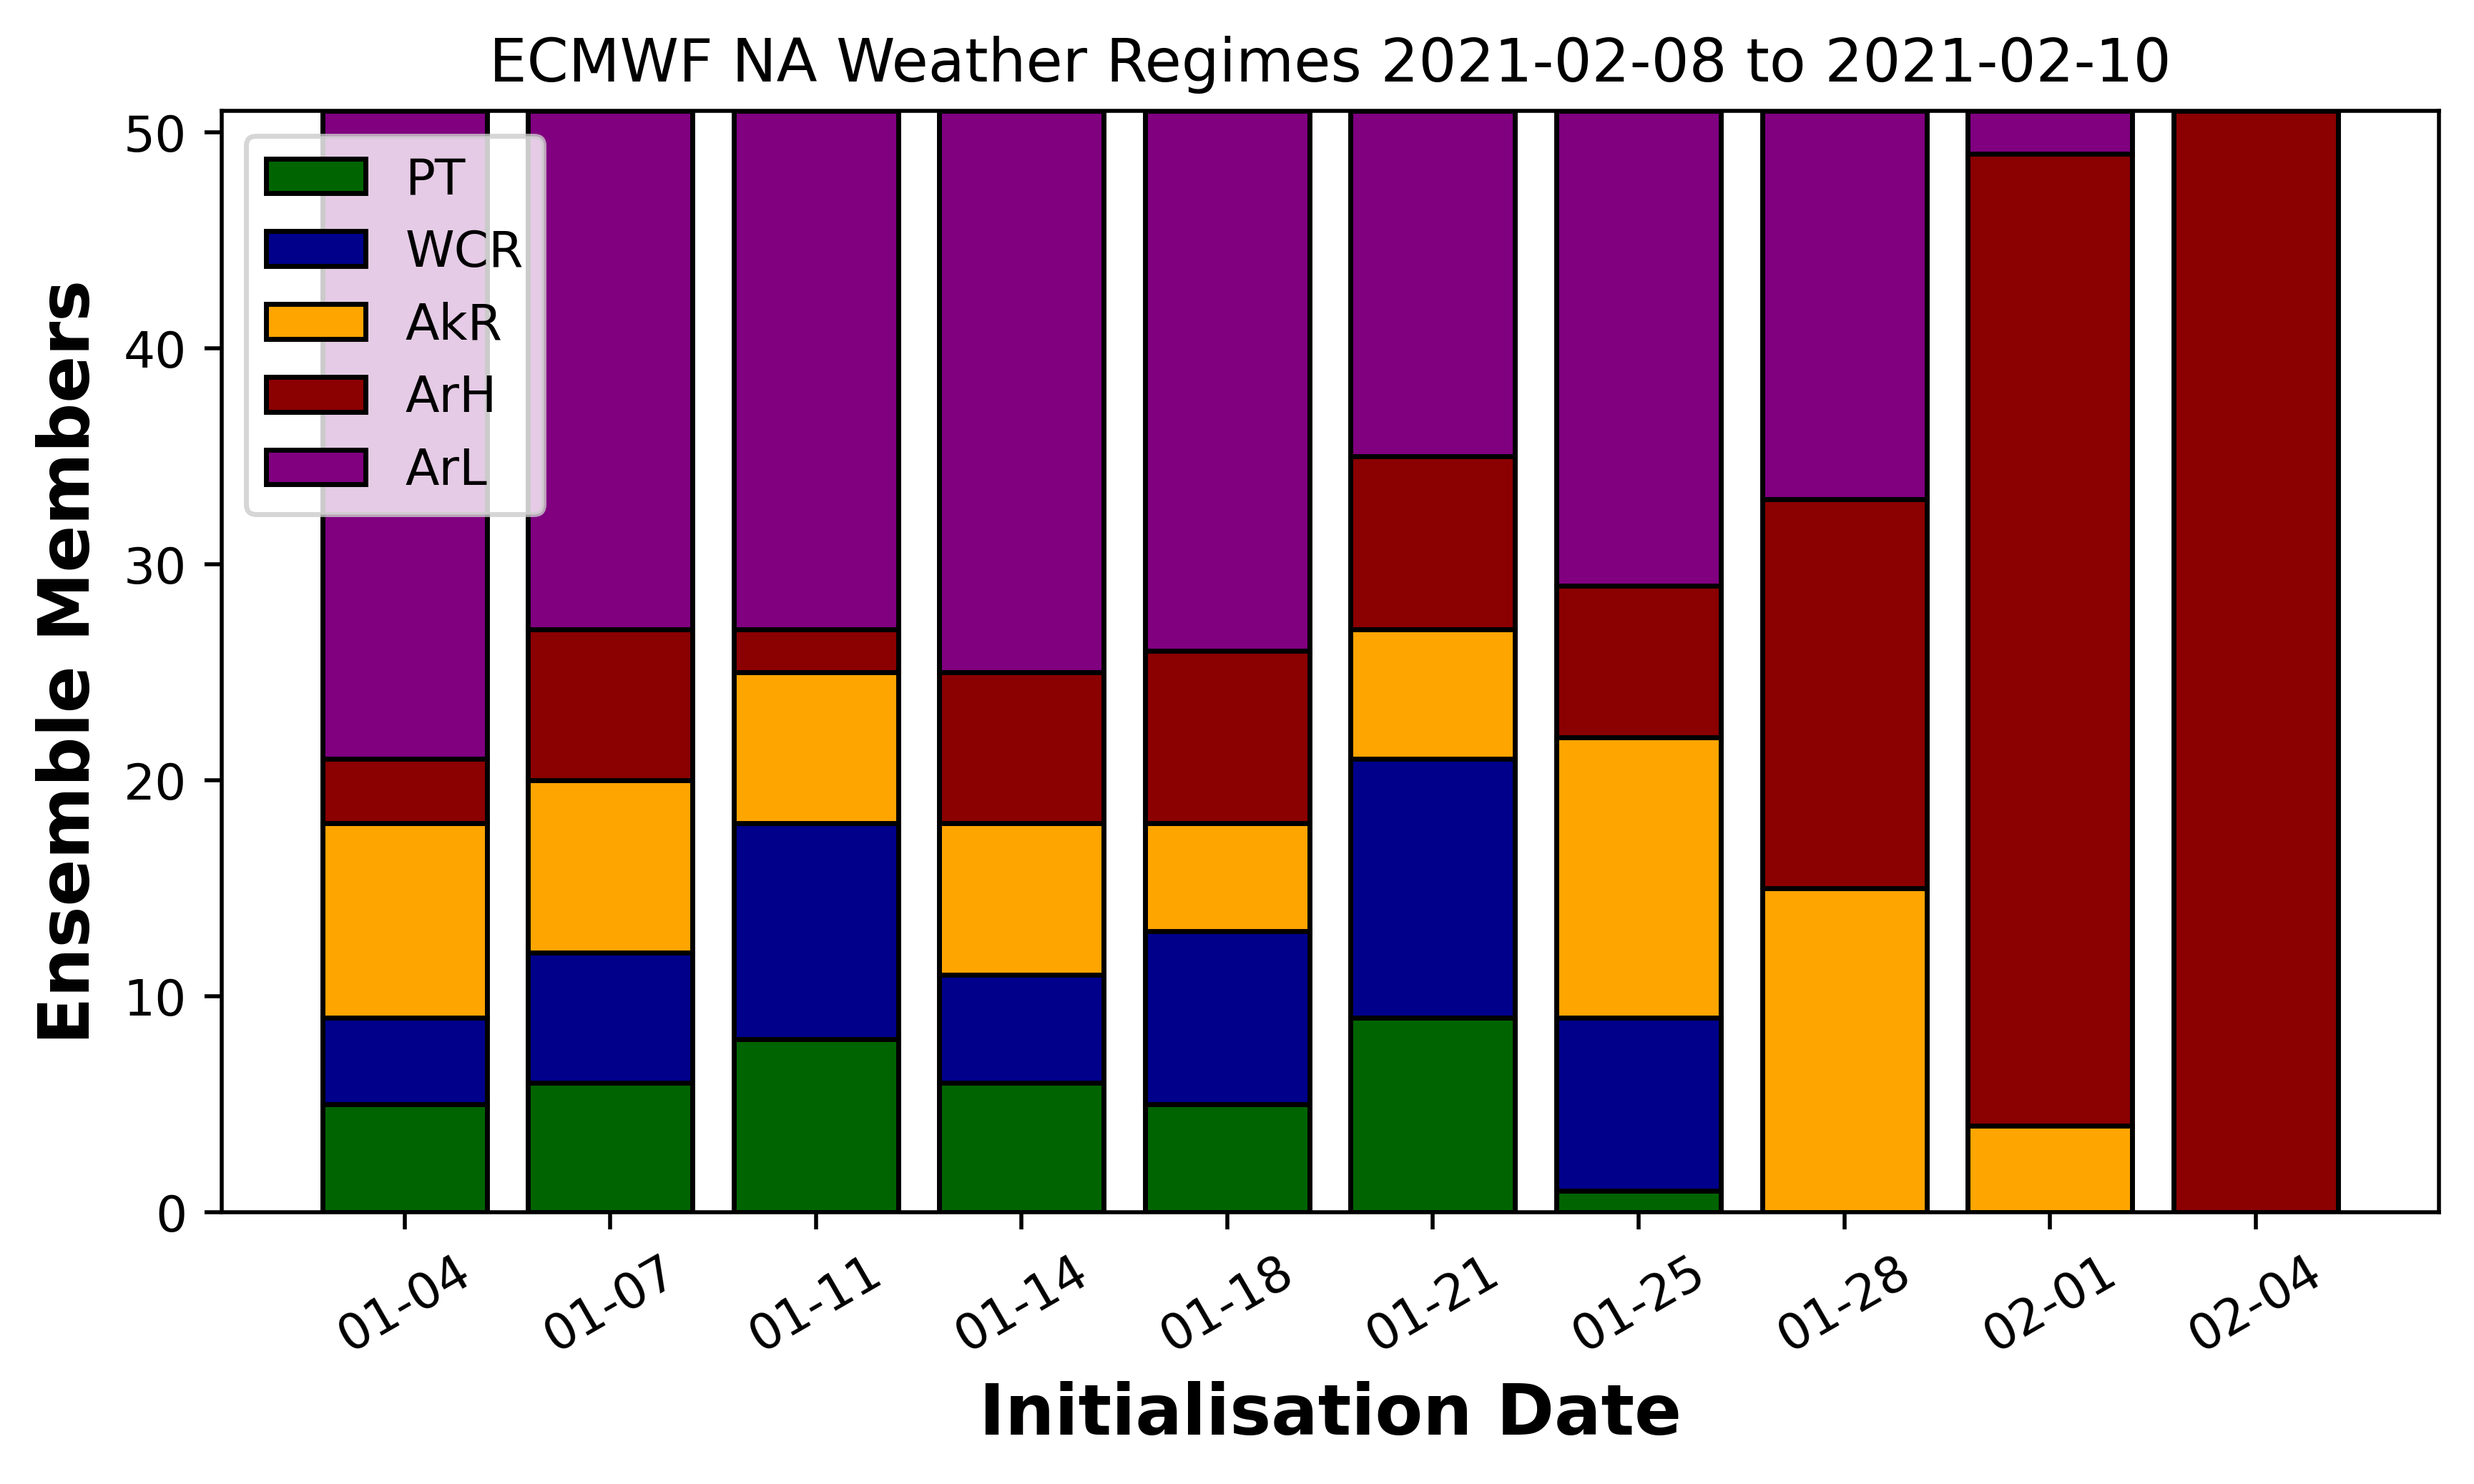
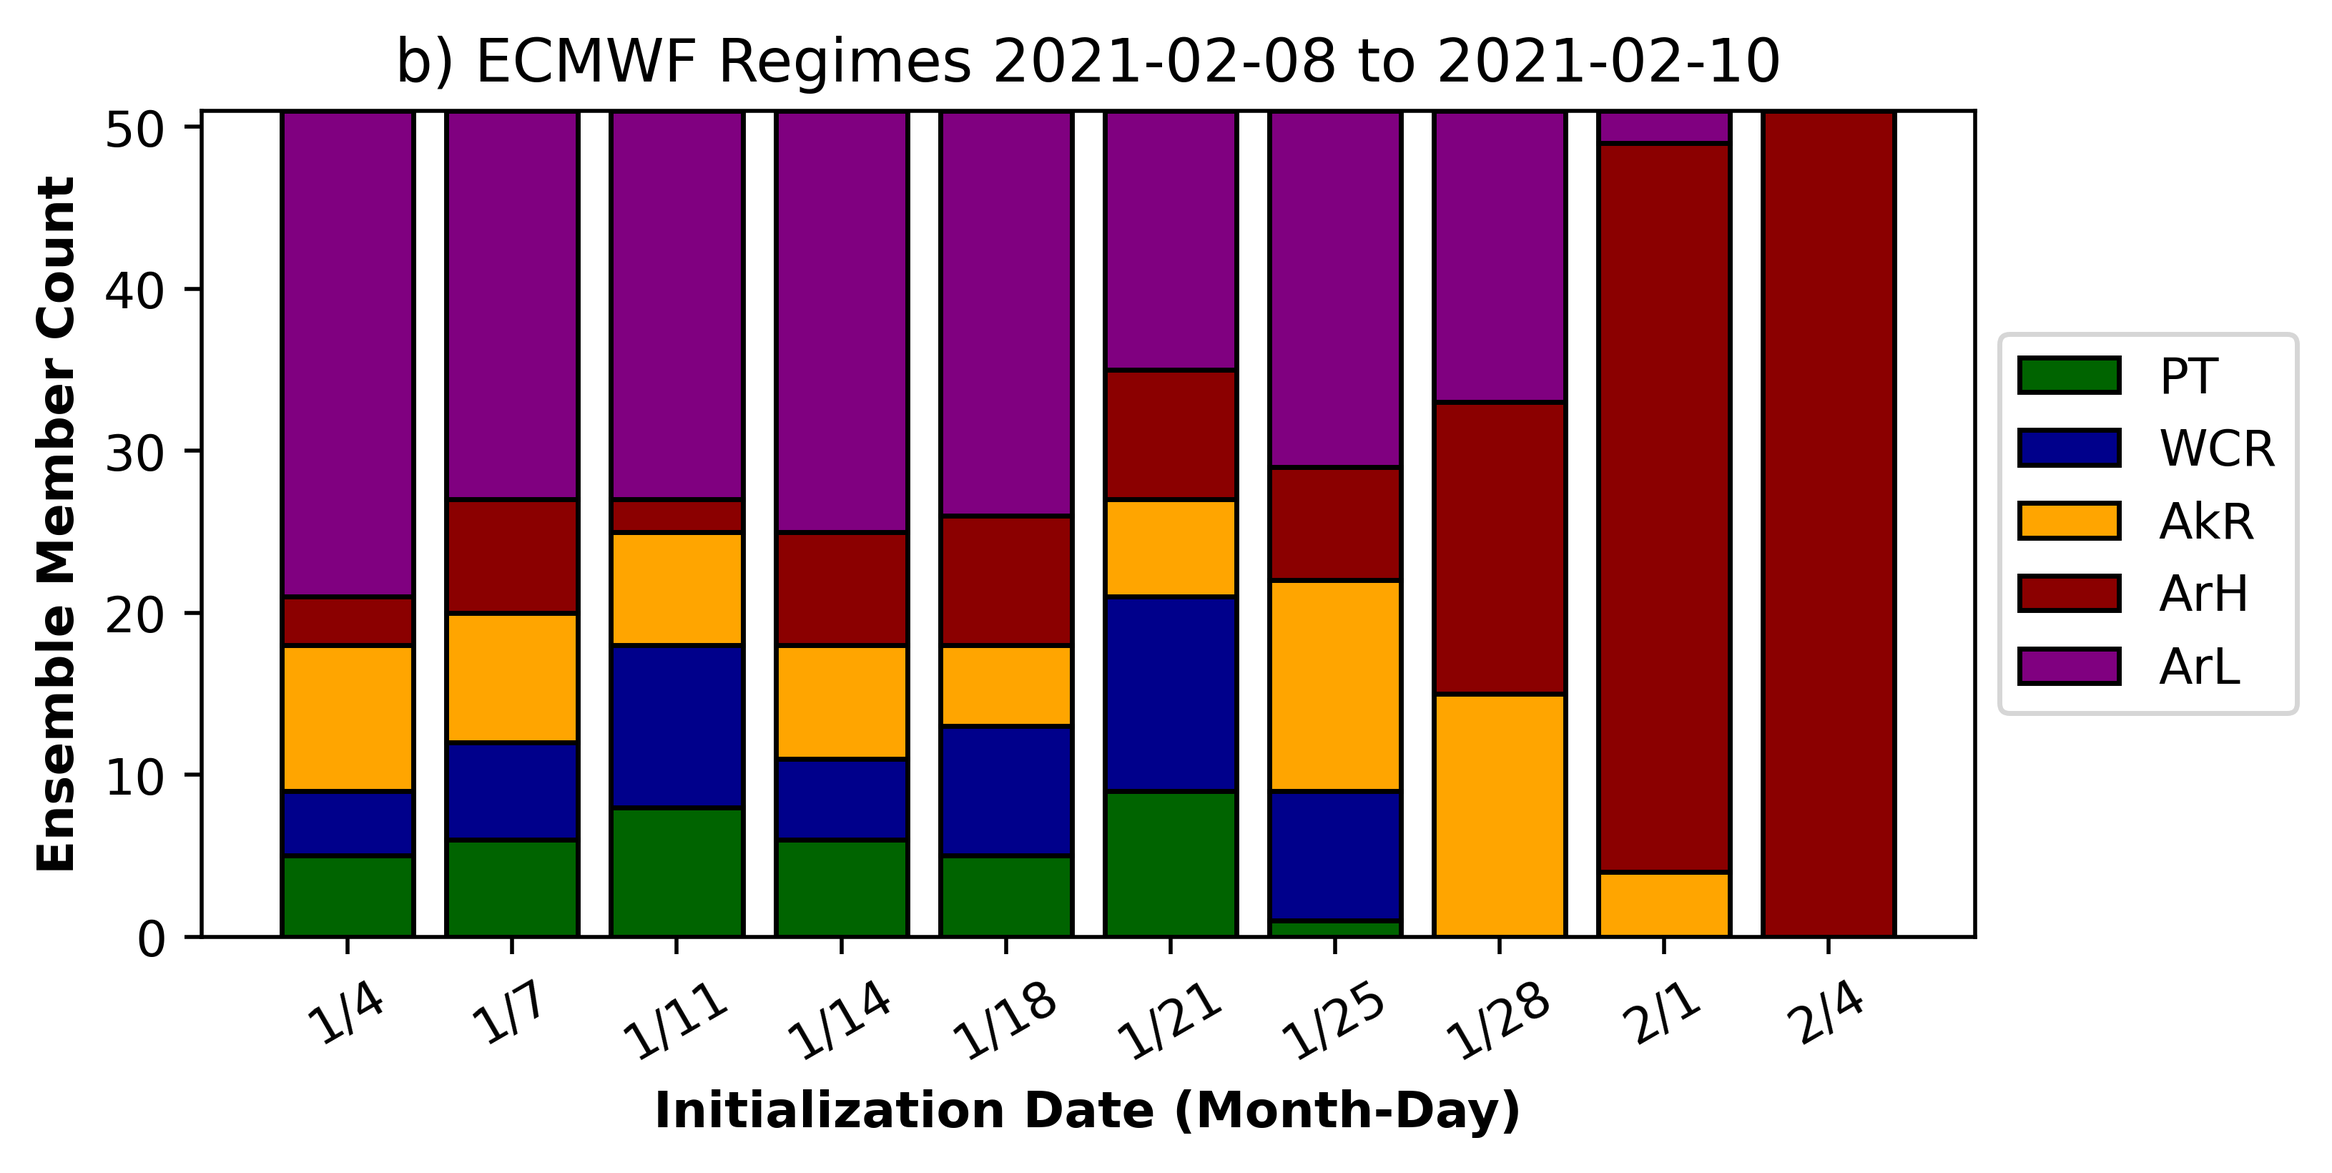
tidied regime script

diff --git a/main/S2S_Models/Regimes/ECMWF/regimes_model_test_multirun.py b/main/S2S_Models/Regimes/ECMWF/regimes_model_test_multirun.py
@@ -1,67 +1,68 @@
+end_date###### Import modules ######
 import numpy as np
 from netCDF4 import Dataset, num2date
 import os
-from datetime import datetime
-from mpl_toolkits.basemap import Basemap, addcyclic
 import matplotlib.pyplot as plt
-from matplotlib import cm, colors
+from mpl_toolkits.basemap import Basemap
 import glob
 from datetime import datetime, timedelta
 from matplotlib.dates import DateFormatter, MonthLocator
-from scipy.stats import pearsonr
+import pickle
 dir = '/share/data1/Students/ollie/CAOs/project-2021-cao/Functions'
 path = os.chdir(dir)
 from model_utils import load_latlon, load_modelparam
 from gen_utils import NormColorMap, NPStere_Map, DrawPolygon
-import pickle
 
-# Select lat/lon you want.
+# Select lat, lon, level bounds.
 lat1, lat2 = 79.5, 19.5
 lon1, lon2 = 180, 330
 level_select = 500
 
-# Get the ltm data.
+###### Get the ltm data for 500 hPa GPH. ######
+# Go to directory for data.
 dir = '/share/data1/Students/ollie/CAOs/Data/Feb_2021_CAO/Model_Data/ECMWF/hgt'
 path = os.chdir(dir)
-
+# Open the file.
 nc = Dataset('climo_ECMWF_hgt_hindcast.nc', 'r')
-ltm_latitude = nc.variables['latitude'][:]
-ltm_longitude = nc.variables['longitude'][:]
+# Read in lat, lon, levels.
+ltm_latitude, ltm_longitude = load_latlon(nc)
 ltm_levels = nc.variables['level'][:]
+# Load model hindcast dates, days array and the ltm hgt array.
 ltm_dates = num2date(nc.variables['hdates'][:], nc.variables['hdates'].units, calendar = 'gregorian', only_use_cftime_datetimes=False, only_use_python_datetimes=True)
 ltm_days = nc.variables['days'][:]
 ltm_hgt = nc.variables['hgt'][:]
+# Close the file
 nc.close()
 
+# Find the lat, lon, and level indices according to the bounds.
 ltm_lat_ind1, ltm_lat_ind2 = np.where(ltm_latitude == lat1)[0][0], np.where(ltm_latitude == lat2)[0][0]
 ltm_lon_ind1, ltm_lon_ind2 = np.where(ltm_longitude == lon1)[0][0], np.where(ltm_longitude == lon2)[0][0]
 level_ind = np.where(ltm_levels == level_select)[0][0]
+# Restrict the ltm GPH to the region bounds you want.
 hgt_ltm_region = ltm_hgt[:, :, level_ind, ltm_lat_ind1:ltm_lat_ind2+1, ltm_lon_ind1:ltm_lon_ind2+1]
 
+###### Read in the realtime model data. ######
 # Choose model.
-
 model = 'ECMWF'
 
 # Go to directory for ensemble of hgt data.
-dir = '/data/deluge/scratch/S2S/realtime/'+model+'/hgt'
+dir = f'/data/deluge/models/S2S/realtime/{model}/hgt'
 path = os.chdir(dir)
 
-# Go through different initializations and get the hgt array for each dataset. Data is time, number, level, lat, lon.
-# First get model parameters via opening model test data.
-# Open data.
-filename = model +'_hgt_2021-01-04_perturbed.nc'
+# Open a data file to get the parameters.
+filename =f'{model}_hgt_2021-01-04_perturbed.nc'
 nc = Dataset(filename, 'r')
-time = num2date(nc.variables['time'][:], nc.variables['time'].units, calendar = 'gregorian', only_use_cftime_datetimes=False, only_use_python_datetimes=True)
-number = nc.variables['number'][:]
+# Load the latitude, longitude, level, time, and ensemble number test data for later.
+mod_latitude, mod_longitude = load_latlon(nc)
 level = nc.variables['level'][:]
-mod_latitude = nc.variables['latitude'][:]
-mod_longitude = nc.variables['longitude'][:]
+time, number = load_modelparam(nc)[0], load_modelparam(nc)[1]
+# Close the nc file.
 nc.close()
 
-# Set model lat and lon.
+# Set model lat and lon indices according to bounds.
 mod_lat_ind1, mod_lat_ind2 = np.where(mod_latitude == lat1)[0][0], np.where(mod_latitude == lat2)[0][0]
 mod_lon_ind1, mod_lon_ind2 = np.where(mod_longitude == lon1)[0][0], np.where(mod_longitude == lon2)[0][0]
-
+# Restrict the model latitudes and longitudes to the indices above.
 mod_region_lat = mod_latitude[mod_lat_ind1:mod_lat_ind2+1]
 mod_region_lon = mod_longitude[mod_lon_ind1:mod_lon_ind2+1]
 
@@ -70,117 +71,151 @@ date_init = '2021-01-04'
 date_end = '2021-02-04'
 
 # Set start and end date to average over.
-length = 3
-cold_start = datetime(2021, 2, 8, 0, 0)
-cold_end = cold_start+timedelta(days = length-1)
+start_date = datetime(2021, 2, 8, 0, 0)
+end_date = datetime(2021, 2, 10, 0, 0)
 
 # Do perturbation indexing.
-model_dir_pert = '/data/deluge/scratch/S2S/realtime/'+model+'/hgt/*perturbed.nc'
+# Go to directory and get all files ending with "perturbed.nc".
+model_dir_pert = f'/data/deluge/models/S2S/realtime/{model}/hgt/*perturbed.nc'
 files_pert = glob.glob(model_dir_pert)
+# Sort the files.
 files_pert.sort()
+# Get the date string in YYYY-MM-DD format.
 model_dates_pert = [i.split("_")[2] for i in files_pert]
+# Find where our chosen dates are in this data.
 pert_ind1 = model_dates_pert.index(date_init)
 pert_ind2 = model_dates_pert.index(date_end)
 
 # Do control indexing.
-model_dir_con = '/data/deluge/scratch/S2S/realtime/'+model+'/hgt/*control.nc'
+# Go to directory and get all files ending with "control.nc".
+model_dir_con = f'/data/deluge/models/S2S/realtime/{model}/hgt/*control.nc'
 files_con = glob.glob(model_dir_con)
+# Sort the files.
 files_con.sort()
+# Get the date string in YYYY-MM-DD format.
 model_dates_con = [i.split("_")[2] for i in files_con]
+# Find where our chosen dates are in this data.
 con_ind1 = model_dates_con.index(date_init)
 con_ind2 = model_dates_con.index(date_end)
 
-
-# Now get the perturbed and control arrays to put data into. Perturbed will be shaped INIT NO. x time x number x lat x lon.
+# Now get the perturbed and control arrays to put data into using np.zeros. Perturbed will be shaped INIT NO. x time x number x lat x lon.
 # Control will be shaped INIT NO. x time x lat x lon.
 perturbed_hgt = np.zeros((pert_ind2-pert_ind1+1, len(ltm_days), len(number), len(mod_region_lat), len(mod_region_lon)))
 control_hgt = np.zeros((con_ind2-con_ind1+1, len(ltm_days), len(mod_region_lat), len(mod_region_lon)))
+# Get associated time and init time lists to append to.
 time_arr = []
 time_init = []
 
 # Now loop through files and store the data! First for perturbed.
+# Loop through the perturbation indexes.
 for i in range(pert_ind1, pert_ind2+1):
+    # Get filename.
     pert_filename = files_pert[i]
+    # Open file.
     nc = Dataset(pert_filename, 'r')
-    time = num2date(nc.variables['time'][:], nc.variables['time'].units, calendar = 'gregorian', only_use_cftime_datetimes=False, only_use_python_datetimes=True)
+    # Get the time.
+    time_pert = num2date(nc.variables['time'][:], nc.variables['time'].units, calendar = 'gregorian', only_use_cftime_datetimes=False, only_use_python_datetimes=True)
+    # Read in the data.
     perturbed_hgt[i-pert_ind1, :, :, :, :] = nc.variables['gh'][:, :, np.where(level == level_select)[0][0], mod_lat_ind1:mod_lat_ind2+1, mod_lon_ind1:mod_lon_ind2+1]
+    # Close file.
     nc.close()
-    time_arr.append(time)
-    time_init.append(time[0])
+    # Append time arrays and init times to the lists.
+    time_arr.append(time_pert)
+    time_init.append(time_pert[0])
 
 # Now for control.
 for i in range(con_ind1, con_ind2+1):
+    # Get filename.
     con_filename = files_con[i]
+    # Open file.
     nc = Dataset(con_filename, 'r')
-    time = num2date(nc.variables['time'][:], nc.variables['time'].units, calendar = 'gregorian', only_use_cftime_datetimes=False, only_use_python_datetimes=True)
+    # Read in the data.
     control_hgt[i-con_ind1, :, :, :] = nc.variables['gh'][:, np.where(level == level_select)[0][0], mod_lat_ind1:mod_lat_ind2+1, mod_lon_ind1:mod_lon_ind2+1]
+    # Close the file.
     nc.close()
 
 # Make time_init an array.
-
 time_init = np.asarray(time_init)
 time_arr = np.stack(time_arr)
 
-# Now join all members with control.
+# Now join all members with control for the whole ensemble suite.
 all_members_hgt = np.concatenate((control_hgt[:, :, None, :, :], perturbed_hgt), axis = 2)
 
-# Now go through each of the hindcast dates that you have chosen and take away the corresponding climo.
-# Set a month and day locator for this.
+###### Find anomalies. ######
+# Set a month and day locator for ltm dates.
 months_ltm = np.array([d.month for d in ltm_dates])
 days_ltm = np.array([d.day for d in ltm_dates])
-
+# Create an empty array to store the hgt anomalies.
 hgt_anom = np.zeros((all_members_hgt.shape))
-
+# Loop through each initialization start time and take away the climo where the month/day trackers equal the init time month/day.
 for i in range(len(time_init)):
     hgt_anom[i] = (all_members_hgt[i] - hgt_ltm_region[np.where((months_ltm == time_init[i].month)&(days_ltm == time_init[i].day))[0][0], :, None, :, :])
 
+###### Now lead time average the anomalies between the selected dates! ######
+# Define the empty array for the lead time averaged data.
 all_members_final = np.zeros((hgt_anom.shape[0], hgt_anom.shape[2], hgt_anom.shape[3], hgt_anom.shape[4]))
+# Loop through each initialization and average between the start date and end date.
 for i in range(len(time_init)):
-    all_members_final[i] = np.nanmean(hgt_anom[i, np.where(time_arr[i]==cold_start)[0][0]:np.where(time_arr[i]==cold_end)[0][0]+1], axis = 0)
+    all_members_final[i] = np.nanmean(hgt_anom[i, np.where(time_arr[i]==start_date)[0][0]:np.where(time_arr[i]==end_date)[0][0]+1], axis = 0)
 
-# Now read in k-means objects.
+###### Regime projections ######
+
+# Now read in k-means and EOF objects from Millin et al. (2022).
 dir = '/share/data1/Students/ollie/CAOs/Data/Regimes/Cluster_Info_S2S'
 path = os.chdir(dir)
 kmeans = pickle.load(open("kmeans_object.pkl","rb"))
 solver = pickle.load(open("eof_object.pkl","rb"))
 
 ## Get the PC loadings for each ensemble member and time
-## output array is shape time, member, PC number
 n_eof = 12 ## the number of EOFs to return, cannot exceed the number previously computed
+# Define array of shape init no. x ens number x n_eof for the PCs.
 pc_ens = np.zeros((all_members_final.shape[0],all_members_final.shape[1],n_eof))
+# Loop through each initialization and project the EOF onto the hgt array.
 for i in range(all_members_final.shape[0]):
 	## project onto EOF & obtain psuedo PC
 	## this automatically uses the same weights as when the EOF was constructed
-	pc_ens[i,:] = solver.projectField(all_members_final[i,:],neofs=n_eof)
+	pc_ens[i,:,:] = solver.projectField(all_members_final[i,:,:,:],neofs=n_eof)
 
 ## now attribute each to a cluster based on the PC loadings
+# Define array of shape init no. x ens member to store clustering numbers.
 clusters = np.zeros((pc_ens.shape[0],pc_ens.shape[1]))
+# Loop through each init and essentially use k-means to assign the cluster to each ensemble member.
 for i in range(clusters.shape[0]):
 	clusters[i,:] = kmeans.predict(pc_ens[i,:])
 
 
-# Make a plot of a certain regime number.
+###### Make a plot of a certain regime number. ######
+# This section is just to visually inspect the outcomes of the clustering to assign the correct numbers to each regime visually!
+# Can be commented out otherwise.
+'''# Select cluster number.
 select_no = 4
-run_ind = np.where(time_init == datetime(2021, 1, 28))[0][0]
+# Find run init index.
+run_ind = np.where(time_init == datetime(2021, 1, 18))[0][0]
+# Isolate clusters and hgt pattern by the run in question.
 select_clust = clusters[run_ind]
 hgt_select = all_members_final[run_ind]
+# Find where the selected run clusters equal the selected cluster number.
 cluster_ind = np.where(select_clust == select_no)[0]
 
-# Now composite to check this is correct!
+# Now composite the pattern to check this is correct!
 comp_select = np.nanmean(hgt_select[cluster_ind], axis = 0)
 
 # Plot the regimes.
+# Make the colormap.
 clevs = np.arange(-30, 32, 2)
 my_cmap, norm = NormColorMap('RdBu_r', clevs)
-
+# Plot the figure.
 fig = plt.figure(figsize=(6, 6))
 m = Basemap(width=14000000,height=8000000,resolution='l',projection='laea',lat_ts=60,lat_0=55,lon_0=-105.)
 lonsmesh, latsmesh = np.meshgrid(mod_region_lon, mod_region_lat)
 x,y = m(lonsmesh,latsmesh)
 cf = m.contourf(x,y,comp_select/10,cmap=my_cmap,extend='both',levels=clevs)
 m.drawcoastlines(linewidth=0.5)
-plt.title("TEST")
+plt.title(f"TEST for {select_no}")
+plt.show(block = False)'''
 
+###### Count each regime for each ensemble member ######
+# From the above analysis, the regime numbers are:
 # 0 = PT
 # 1 = WCR
 # 2 = AkR
@@ -188,17 +223,15 @@ plt.title("TEST")
 # 4 = ArL
 
 # Go through each init and count how many PT, WCR, AkR, ArH, and ArL.
-
 # Change the array to integers to use bincount.
-
 clusters = clusters.astype(int)
-
+# Define the empty arrays to hold the count of each regime.
 pt_count = np.zeros(len(time_init))
 wcr_count = np.zeros(len(time_init))
 akr_count = np.zeros(len(time_init))
 arh_count = np.zeros(len(time_init))
 arl_count = np.zeros(len(time_init))
-
+# Loop through each init and count how many are in each regime type.
 for i in range(len(time_init)):
 	pt_count[i] = np.count_nonzero(clusters[i] == 0)
 	wcr_count[i] = np.count_nonzero(clusters[i] == 1)
@@ -207,20 +240,25 @@ for i in range(len(time_init)):
 	arl_count[i] = np.count_nonzero(clusters[i] == 4)
 
 
-# Create color list
-
+# Create color list for each regime.
 colors = ['darkgreen', 'darkblue', 'darkorange', 'darkred', 'darkpurple']
-# Now create a stacked bar graph.
-labels = [i.strftime("%m-%d") for i in time_init]
+# Get labels for plot in correct form "M-DD".
+labels = [f'{i.month}/{i.day}' for i in time_init]
+# Make the plot!
 fig, ax = plt.subplots(figsize = (8,3))
 ax.bar(labels, pt_count, color = 'darkgreen', label = 'PT', edgecolor = 'black')
 ax.bar(labels, wcr_count, label = 'WCR', color = 'darkblue', bottom = pt_count, edgecolor = 'black')
 ax.bar(labels, akr_count, label = 'AkR', color = 'orange', bottom = pt_count+wcr_count, edgecolor = 'black')
 ax.bar(labels, arh_count, label = 'ArH', color = 'darkred', bottom = pt_count+wcr_count+akr_count, edgecolor = 'black')
 ax.bar(labels, arl_count, label = 'ArL', color = 'purple', bottom = pt_count+wcr_count+akr_count+arh_count, edgecolor = 'black')
-plt.legend(loc = 'lower left', ncol = 5)
-plt.xlabel('Initialization Date (MM-DD)', fontsize = 10, weight = 'bold')
+plt.xlabel('Initialization Date (Month-Day)', fontsize = 10, weight = 'bold')
 plt.xticks(labels, rotation = 30)
 plt.ylabel('Ensemble Member Count', fontsize = 10, weight = 'bold')
-plt.title(f'b) ECMWF Regimes {cold_start.strftime("%Y-%m-%d")} to {cold_end.strftime("%Y-%m-%d")}')
+# Shrink current axis by 20%
+box = ax.get_position()
+ax.set_position([box.x0, box.y0, box.width * 0.8, box.height])
+# Put a legend to the right of the current axis
+ax.legend(loc='center left', bbox_to_anchor=(1, 0.5))
+#plt.legend(loc = 'lower left', ncol = 5)
+plt.title(f'b) ECMWF Regimes {start_date.strftime("%Y-%m-%d")} to {end_date.strftime("%Y-%m-%d")}')
 plt.savefig("/share/data1/Students/ollie/CAOs/project-2021-cao/main/S2S_Models/Regimes/ECMWF/bar_init.png", bbox_inches = 'tight', dpi = 500)
